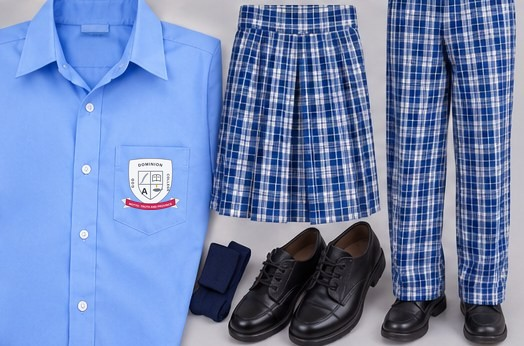
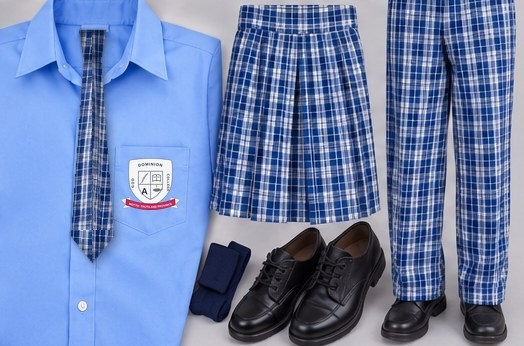
Add blue check tie to uniform photo and list
Claude-Session: https://claude.ai/code/session_01RzuGNaAAf572w6FxRonkN9

Changed region(s): [[0.1221, 0.0867, 0.2443, 0.7803]]

diff --git a/templates/site/admissions.html b/templates/site/admissions.html
@@ -51,8 +51,8 @@
     </div>
     <div class="box" style="margin-bottom:24px" id="uniform">
       <h3>School uniform</h3>
-      <img src="{{ url_for('static', filename='img/photos/uniform.jpg') }}" alt="The school uniform: light blue shirt with crest, blue check skirt and trousers, navy socks and black shoes" style="border-radius:14px;margin-bottom:14px;width:100%" loading="lazy">
-      <ul class="ticks"><li>Light blue shirt with the school crest on the pocket</li><li>Blue check skirt (girls) or trousers (boys)</li><li>Navy blue socks</li><li>Black lace-up or buckle shoes</li></ul>
+      <img src="{{ url_for('static', filename='img/photos/uniform.jpg') }}" alt="The school uniform: light blue shirt with crest, blue check tie, blue check skirt and trousers, navy socks and black shoes" style="border-radius:14px;margin-bottom:14px;width:100%" loading="lazy">
+      <ul class="ticks"><li>Light blue shirt with the school crest on the pocket</li><li>Blue check tie (same fabric as the trousers)</li><li>Blue check skirt (girls) or trousers (boys)</li><li>Navy blue socks</li><li>Black lace-up or buckle shoes</li></ul>
       <p style="margin:10px 0 0;font-size:.95rem">Uniforms are sold at the school office after admission.</p>
     </div>
     <div class="box" style="margin-bottom:24px">
